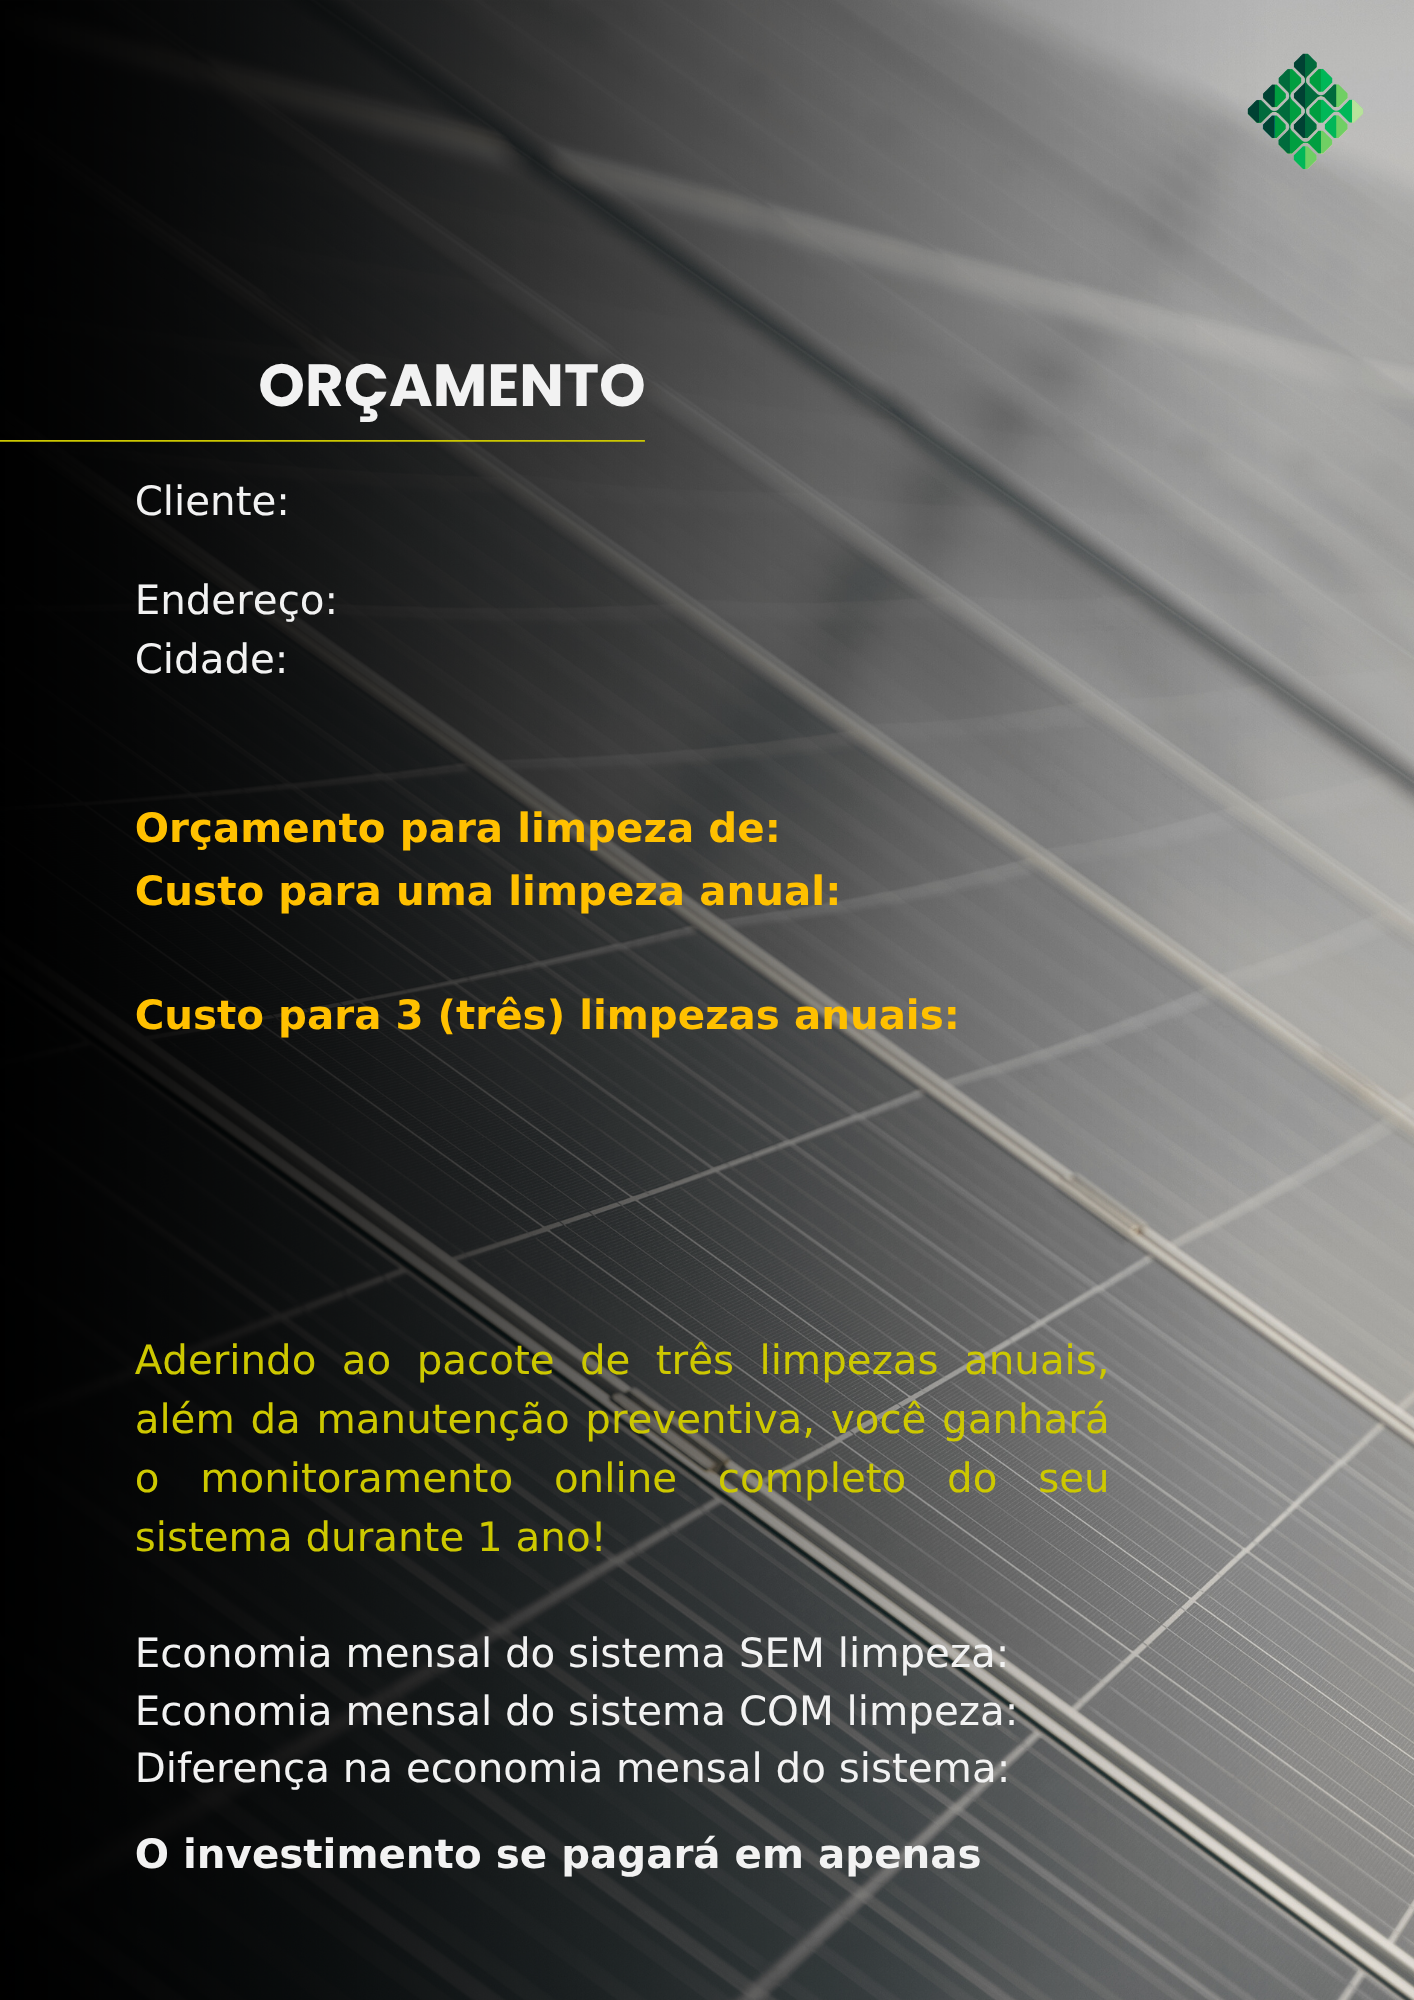
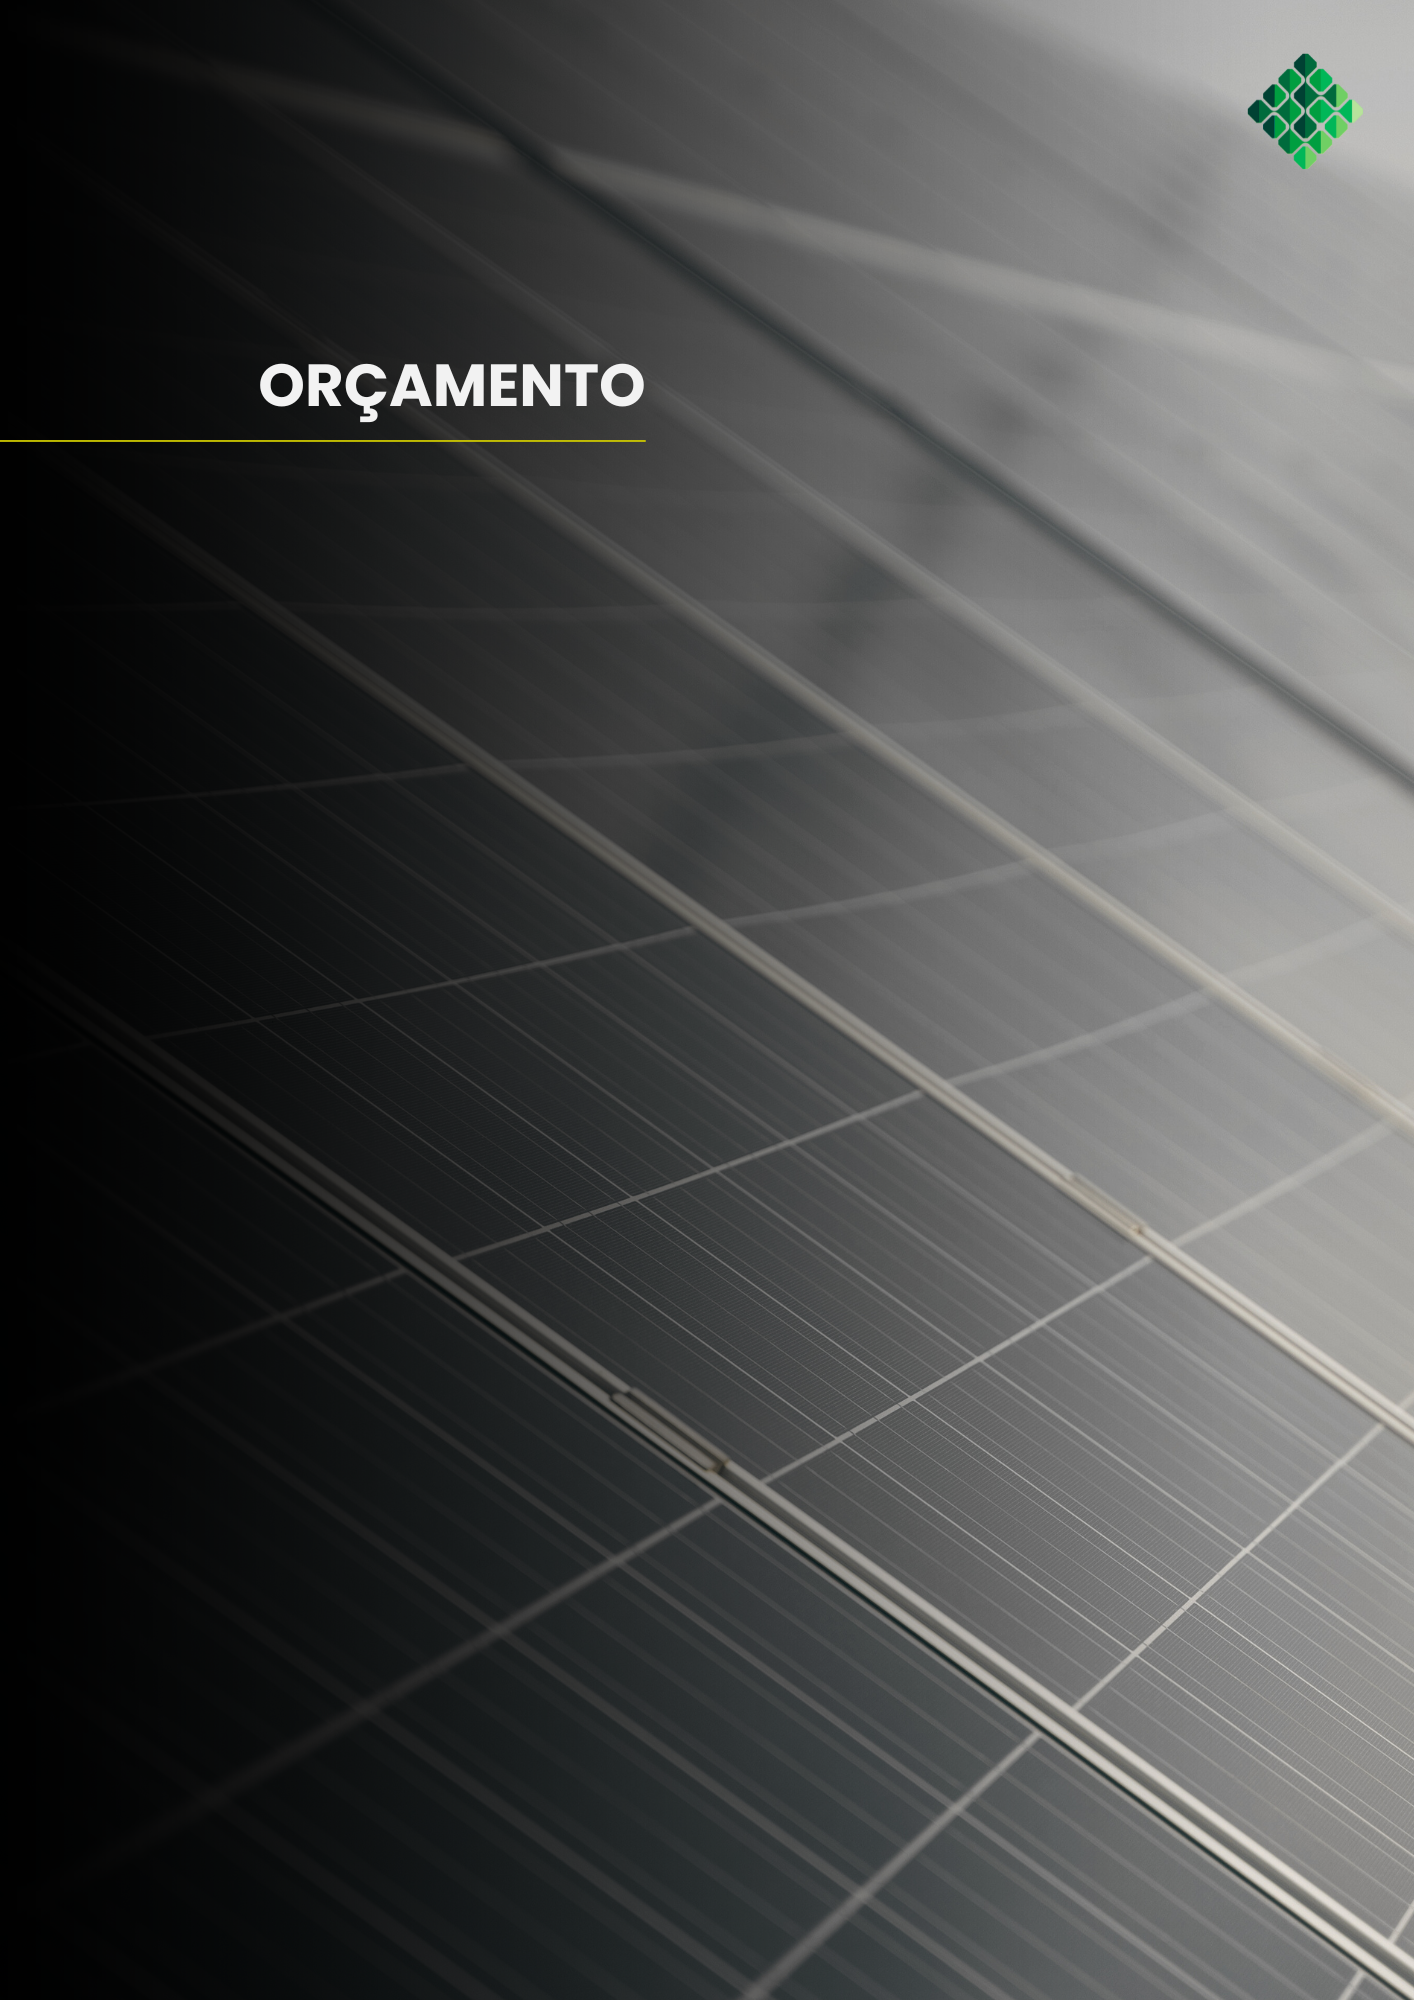
fix: Update cleaning service calculations and improve PDF output formatting

diff --git a/gerar_pdf_limpeza.php b/gerar_pdf_limpeza.php
@@ -41,7 +41,7 @@ if ($_SERVER["REQUEST_METHOD"] == "POST") {
     $precokwh_numeric = floatval(str_replace(',', '.', $precokwh_input_str)); // E6 (numeric)
 
     // --- NOVAS VARIÁVEIS E CONSTANTES DA PLANILHA ---
-    $perdageracao_f6 = 0.85; // F6 da planilha
+    $perdageracao_f6 = 0.15; // F6 da planilha
     $fator_solar_mensal_equivalente = 30 * 4; // (30 dias * 4 horas de sol pleno equivalentes por dia)
 
     // Cálculo de Economia
@@ -86,7 +86,7 @@ if ($_SERVER["REQUEST_METHOD"] == "POST") {
     }
 
     $deslocamento = 26.25;      // J6 (fixo)
-    $k6_comissao_val = 0.95;    // K6 (fixo, conforme solicitado)
+    $k6_comissao_val = 0.05;    // K6 (fixo, conforme solicitado)
     $estrutura_j4 = "TELHADO"; // J4 (fixo)
     $fator_estrutura_solo = ($estrutura_j4 == "SOLO" ? 1.0 : 1.0); // Na prática, sempre 1 com J4="TELHADO"
 
@@ -116,7 +116,7 @@ if ($_SERVER["REQUEST_METHOD"] == "POST") {
     // --- CRIAÇÃO DO PDF ---
     $pdf = new TCPDF(PDF_PAGE_ORIENTATION, PDF_UNIT, PDF_PAGE_FORMAT, true, 'UTF-8', false);
     $pdf->SetCreator(PDF_CREATOR);
-    $pdf->SetAuthor('Canal Verde');
+    $pdf->SetAuthor('Canal Verde ' );
     $pdf->SetTitle('Proposta Limpeza de Módulos');
     $pdf->SetSubject('Proposta Comercial');
 
@@ -134,49 +134,15 @@ if ($_SERVER["REQUEST_METHOD"] == "POST") {
         $pdf->SetTextColor(255,0,0); $pdf->Text(10,10, "Erro: Imagem PL1.png não encontrada!");
     }
 
-    $pdf->SetFont('helvetica', '', 10); // Fonte um pouco menor para caber mais info
+    $pdf->SetFont('helvetica', 'B', 14); // Fonte um pouco menor para caber mais info
     $pdf->SetTextColor(255, 255, 255); // Cor do texto Branca (ajuste se sua imagem tiver fundo claro)
 
     $x_coord = 34.2;
     $y_coord = 85; // Subi um pouco para mais espaço
     $line_height = 6;
 
-    $pdf->SetXY($x_coord, $y_coord); $pdf->MultiCell(160, $line_height, "Nome: " . $nome, 0, 'L'); $y_coord += $line_height;
-    $pdf->SetXY($x_coord, $y_coord); $pdf->MultiCell(160, $line_height, "Endereço: " . $endereco, 0, 'L'); $y_coord += $line_height;
-    $pdf->SetXY($x_coord, $y_coord); $pdf->MultiCell(160, $line_height, "Cidade: " . $cidade, 0, 'L'); $y_coord += $line_height * 1.2;
-
-    $pdf->SetFont('helvetica', 'B', 10);
-    $pdf->SetXY($x_coord, $y_coord); $pdf->MultiCell(160, $line_height, "DADOS DO SISTEMA E PROPOSTA:", 0, 'L'); $y_coord += $line_height;
-    $pdf->SetFont('helvetica', '', 10);
-
-    $pdf->SetXY($x_coord, $y_coord); $pdf->MultiCell(160, $line_height, "Quantidade de Módulos: " . $qtdmodulos . " unidades", 0, 'L'); $y_coord += $line_height;
-    $pdf->SetXY($x_coord, $y_coord); $pdf->MultiCell(160, $line_height, "Potência de cada Módulo: " . $potmodulos_Wp . " Wp", 0, 'L'); $y_coord += $line_height;
-    $potenciaTotalSistemaKWp = ($qtdmodulos * $potmodulos_Wp) / 1000;
-    $pdf->SetXY($x_coord, $y_coord); $pdf->MultiCell(160, $line_height, "Potência Total do Sistema: " . number_format($potenciaTotalSistemaKWp, 2, ',', '.') . " kWp", 0, 'L'); $y_coord += $line_height;
-    $pdf->SetXY($x_coord, $y_coord); $pdf->MultiCell(160, $line_height, "Preço do kWh Informado: R$ " . number_format($precokwh_numeric, 2, ',', '.'), 0, 'L'); $y_coord += $line_height * 1.2;
-
-    $pdf->SetFont('helvetica', 'B', 10);
-    $pdf->SetXY($x_coord, $y_coord); $pdf->MultiCell(160, $line_height, "ANÁLISE DE ECONOMIA COM LIMPEZA:", 0, 'L'); $y_coord += $line_height;
-    $pdf->SetFont('helvetica', '', 10);
-
-    $pdf->SetXY($x_coord, $y_coord); $pdf->MultiCell(160, $line_height, "Economia Mensal Estimada (Módulos Limpos): R$ " . number_format($econMensalComLimp, 2, ',', '.'), 0, 'L'); $y_coord += $line_height;
-    $pdf->SetXY($x_coord, $y_coord); $pdf->MultiCell(160, $line_height, "Economia Mensal Estimada (Módulos Sujos - perda F6=" . ($perdageracao_f6*100) . "%): R$ " . number_format($econMensalSemLimp, 2, ',', '.'), 0, 'L'); $y_coord += $line_height;
-    $pdf->SetFont('helvetica', 'B', 10);
-    $pdf->SetXY($x_coord, $y_coord); $pdf->MultiCell(160, $line_height, "Ganho Mensal com a Limpeza: R$ " . number_format($econDiferenca, 2, ',', '.'), 0, 'L'); $y_coord += $line_height * 1.2;
-    $pdf->SetFont('helvetica', '', 10);
-
-    $pdf->SetFont('helvetica', 'B', 10);
-    $pdf->SetXY($x_coord, $y_coord); $pdf->MultiCell(160, $line_height, "INVESTIMENTO NA LIMPEZA:", 0, 'L'); $y_coord += $line_height;
-    $pdf->SetFont('helvetica', '', 10);
-
-    $pdf->SetXY($x_coord, $y_coord); $pdf->MultiCell(160, $line_height, "Custo por Limpeza Avulsa: R$ " . number_format($custototal_B15, 2, ',', '.'), 0, 'L'); $y_coord += $line_height;
-    $pdf->SetXY($x_coord, $y_coord); $pdf->MultiCell(160, $line_height, "Payback (1 Limpeza): " . $payback1limpeza_text, 0, 'L'); $y_coord += $line_height * 1.2;
-
-    $pdf->SetXY($x_coord, $y_coord); $pdf->MultiCell(160, $line_height, "Pacote 3 Limpezas: " . $custo3limpezas_text, 0, 'L'); $y_coord += $line_height;
-    $pdf->SetXY($x_coord, $y_coord); $pdf->MultiCell(160, $line_height, "Payback (Pacote 3 Limpezas, valor 1ª parc.): " . $payback3limpezas_text, 0, 'L'); $y_coord += $line_height;
-
     // Data atual no canto inferior direito
-    $pdf->SetFont('helvetica', 'B', 10);
+    $pdf->SetFont('helvetica', 'B', 14);
     $pdf->SetXY(175, 280); // Ajuste Y se necessário
     $pdf->Cell(0, 10, $dataAtual, 0, 0, 'R');
 
@@ -190,7 +156,22 @@ if ($_SERVER["REQUEST_METHOD"] == "POST") {
     if (file_exists('PL4.png')) {
         $pdf->AddPage(); $pdf->Image('PL4.png', 0, 0, 210, 297, '', '', '', false, 300, '', false, false, 0);
     }
+    
+    $pdf->SetXY(18.4, 71); $pdf->MultiCell(160, $line_height,"Cliente: " .$nome, 0, 'L'); $y_coord += $line_height;
+    $pdf->SetXY(18.4,78); $pdf->MultiCell(160, $line_height,$qtdmodulos." módulos, ". $potmodulos_Wp ." Wp, de ". $potenciaTotalSistemaKWp."kWp", 0, 'L'); $y_coord += $line_height * 1.2;
+    $pdf->SetXY(18.4, 85); $pdf->MultiCell(160, $line_height,"Endereço: " .$endereco, 0, 'L'); $y_coord += $line_height;
+    $pdf->SetXY(18.4,92); $pdf->MultiCell(160, $line_height,"Cidade: " .$cidade, 0, 'L'); $y_coord += $line_height * 1.2;
 
+    $pdf->SetXY(18.4, 115); $pdf->MultiCell(160, $line_height, "Custo por Limpeza Avulsa: R$ " . number_format($custototal_B15, 2, ',', '.'), 0, 'L'); $y_coord += $line_height;
+    $pdf->SetXY(18.4, 122); $pdf->MultiCell(160, $line_height, "Payback (1 Limpeza): " . $payback1limpeza_text, 0, 'L'); $y_coord += $line_height * 1.2;
+    $pdf->SetXY(18.4, 129); $pdf->MultiCell(160, $line_height, "Pacote 3 Limpezas: " . $custo3limpezas_text, 0, 'L'); $y_coord += $line_height;
+    $pdf->SetXY(18.4, 136); $pdf->MultiCell(160, $line_height, "Payback (Pacote 3 Limpezas, valor 1ª parc.): " . $payback3limpezas_text, 0, 'L'); $y_coord += $line_height;
+    
+    $pdf->SetXY(18.4, 196); $pdf->MultiCell(160, $line_height,"Aderindo ao pacote de três limpezas anuais, além da manutenção preventiva, você ganhará o monitoramento online completo do seu sistema durante 1 ano!", 2, false); 
+
+    $pdf->SetXY(18.4, 159); $pdf->MultiCell(160, $line_height,"Economia mensal do sistema SEM limpeza: R$ " .number_format($econMensalComLimp, 2, ',', '.'), 0, 'L'); $y_coord += $line_height;
+    $pdf->SetXY(18.4, 166); $pdf->MultiCell(160, $line_height,"Economia mensal do sistema COM limpeza: R$ " .number_format($econMensalSemLimp, 2, ',', '.'), 0, 'L'); $y_coord += $line_height;
+    $pdf->SetXY(18.4, 173); $pdf->MultiCell(160, $line_height,"Diferença na economia mensal do sistema: R$ " .number_format($econDiferenca, 2, ',', '.'), 0, 'L'); $y_coord += $line_height * 1.2;
     $nomeArquivoLimpo = preg_replace('/[^A-Za-z0-9_\-]/', '_', $nome);
     $pdf->Output("Proposta_Limpeza_Modulos_{$nomeArquivoLimpo}.pdf", 'I');
 
